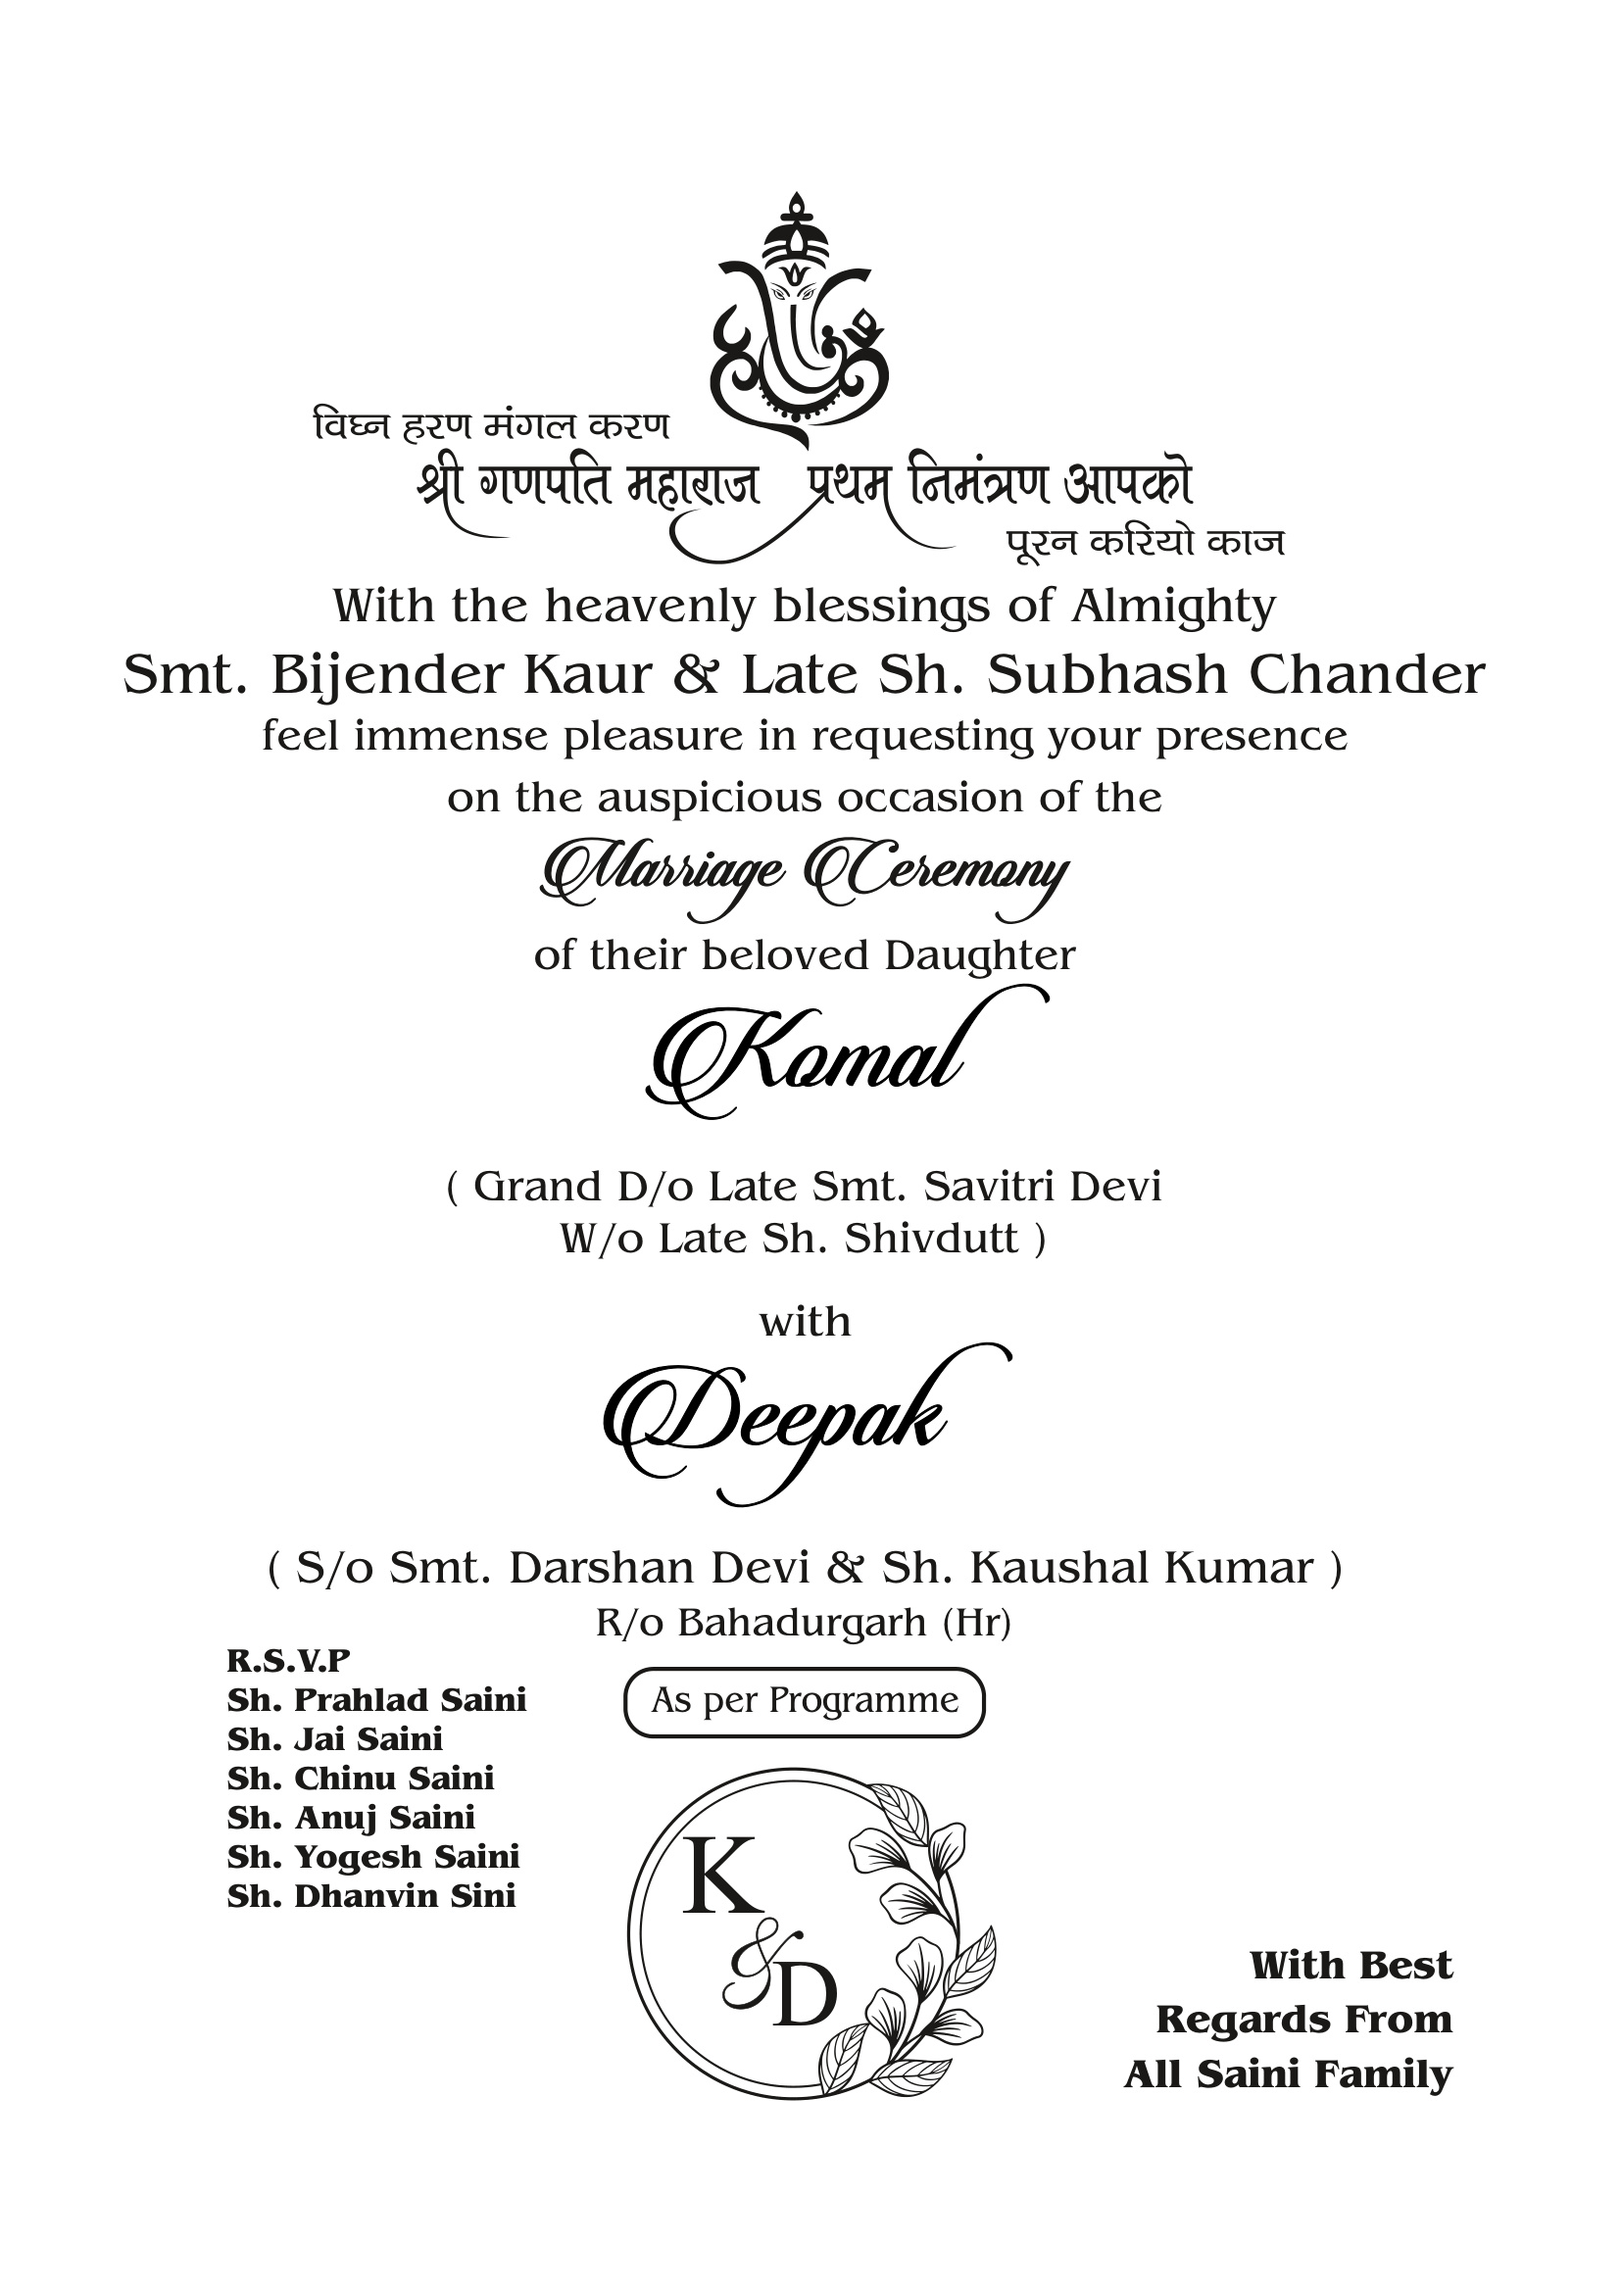
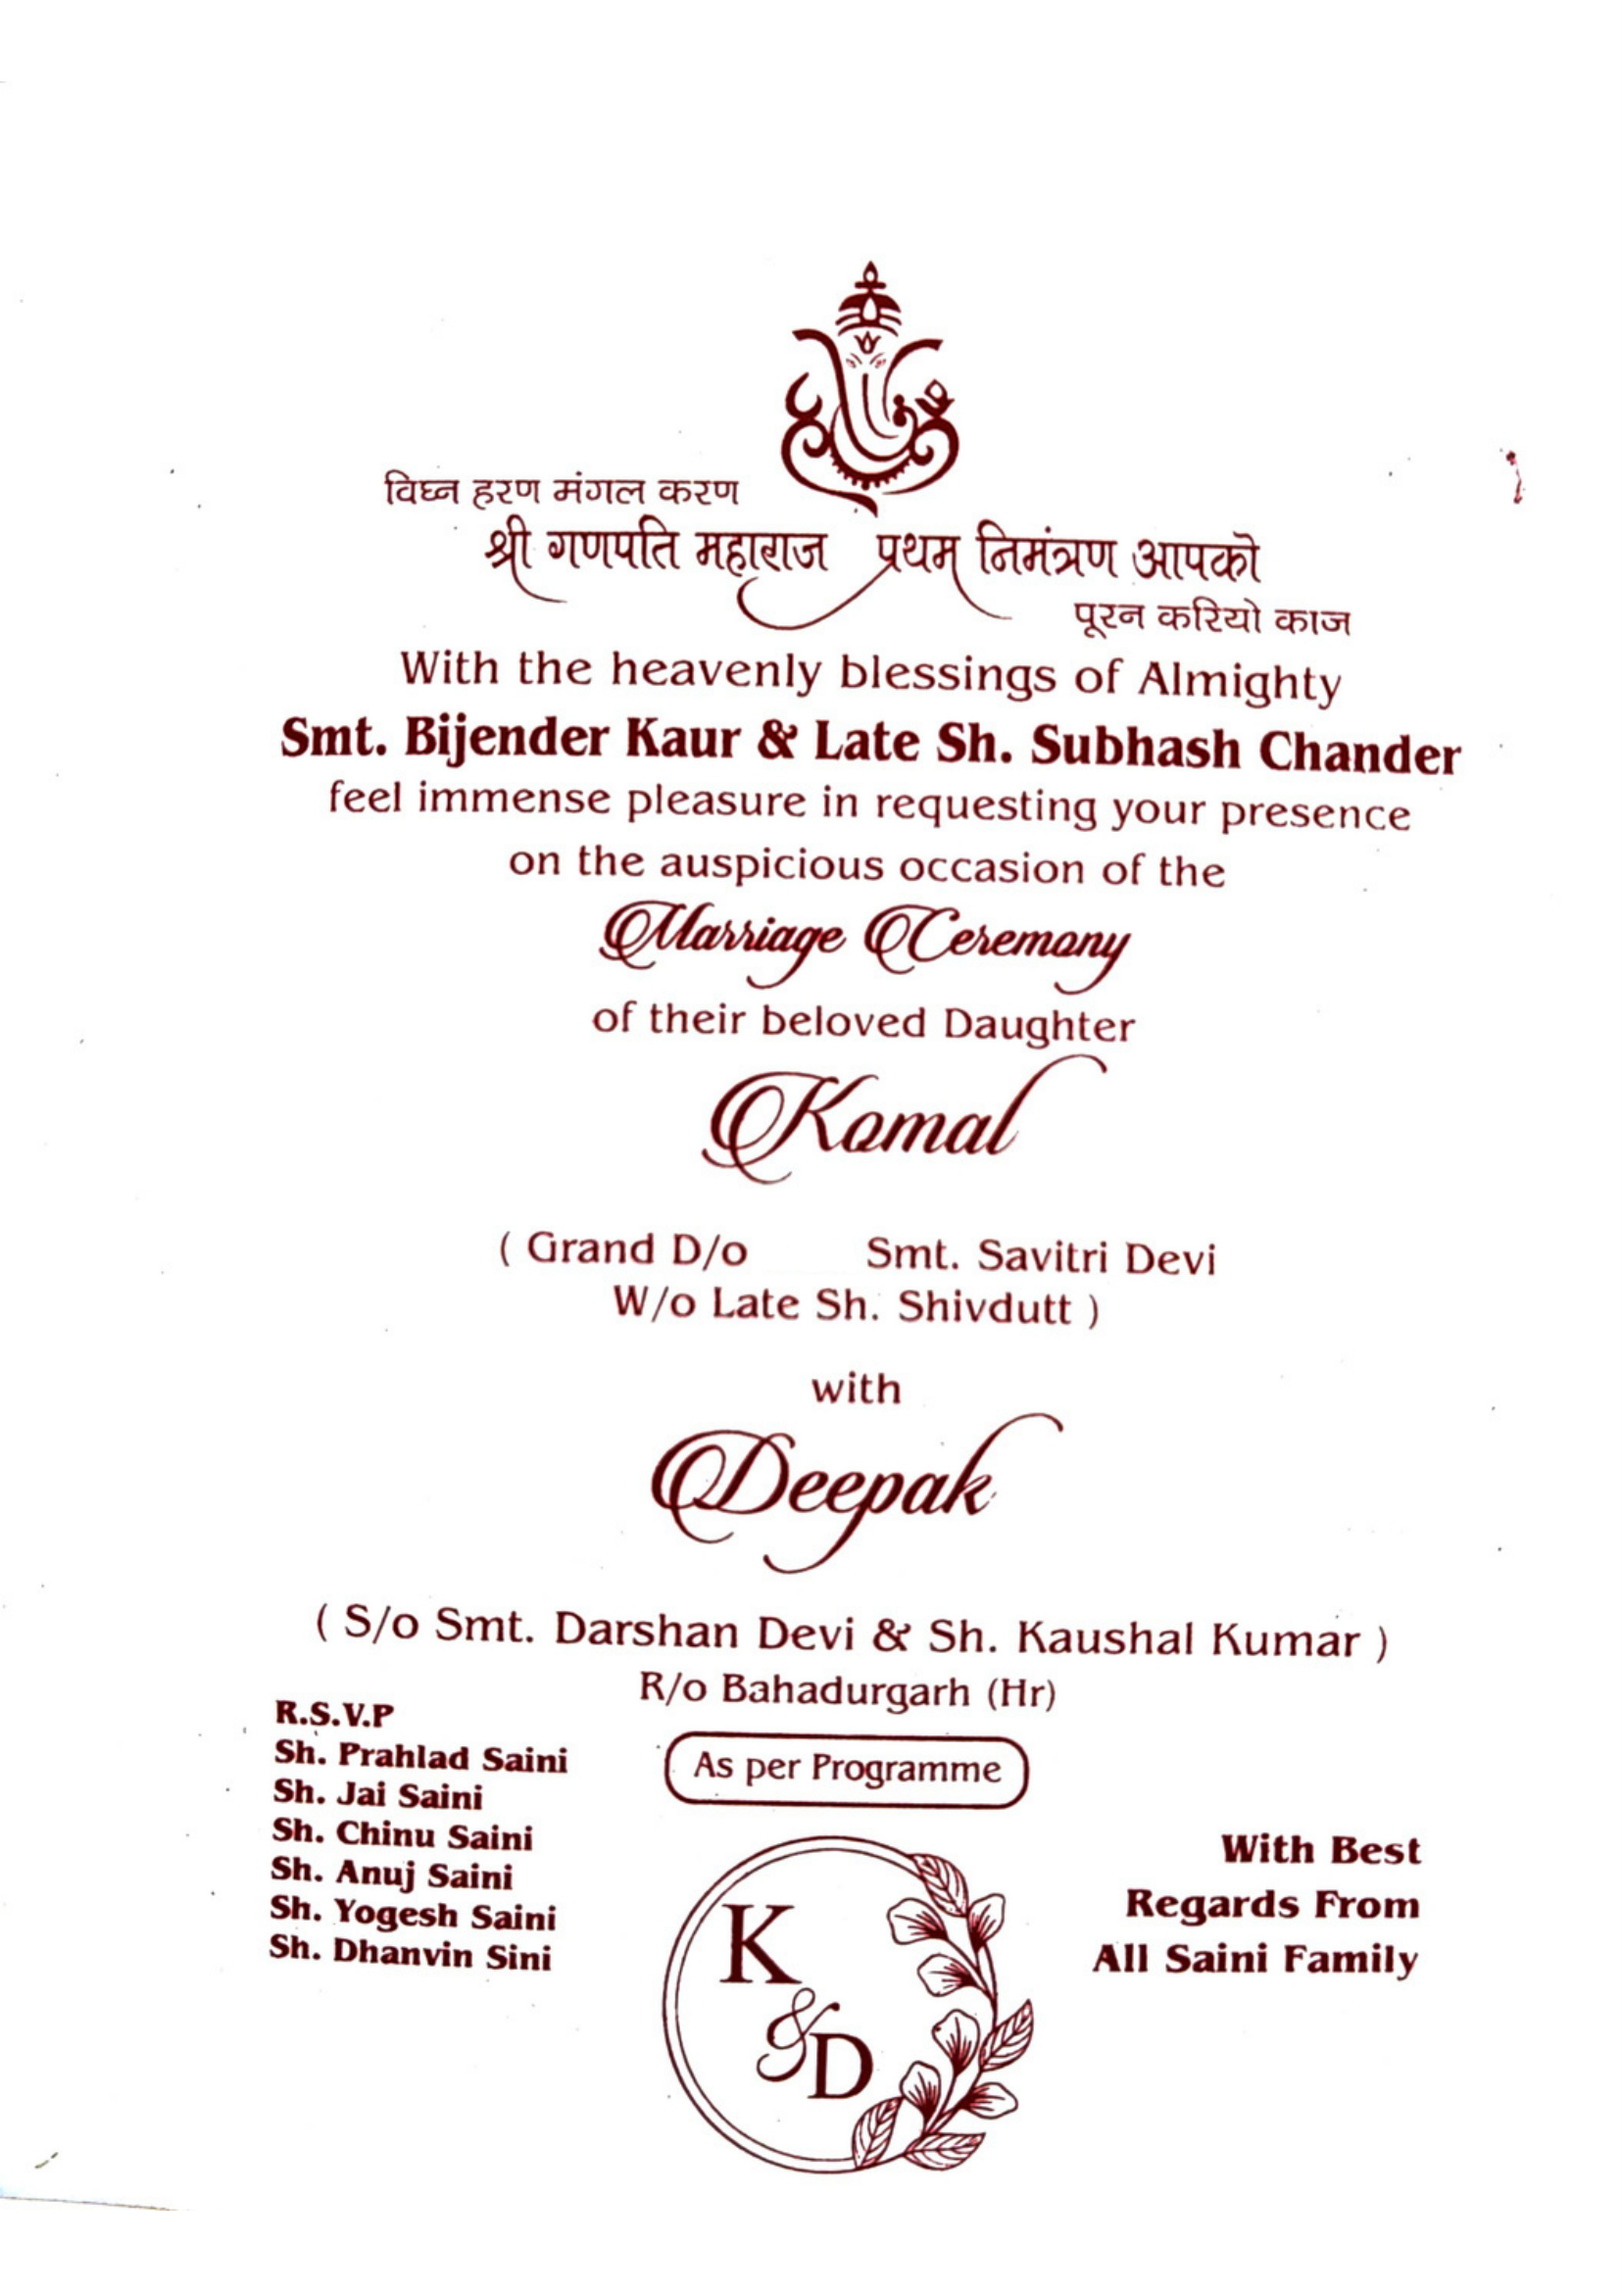
Update Save Wedding Schedule card and image assets from the new PDF

Changed region(s): [[0.0617, 0.0936, 0.925, 0.9675], [0.6784, 0.7802, 0.8942, 0.9363], [0.185, 0.156, 0.2158, 0.1873]]

diff --git a/src/data/wedding.ts b/src/data/wedding.ts
@@ -132,7 +132,7 @@ export const wedding: WeddingData = {
     address: "290/14, Quilla Mohalla, Bahadurgarh-124507",
     addressHindi: "२९०/१४, किला मोहल्ला, बहादुरगढ़-१२४५०७",
     contacts: ["9017824181", "8930385454"],
-    brideLineage: "Grand D/o Late Smt. Savitri Devi W/o Late Sh. Shivdutt",
+    brideLineage: "Grand D/o  Smt. Savitri Devi W/o Late Sh. Shivdutt",
     groomLineage: "S/o Smt. Darshan Devi & Sh. Kaushal Kumar, R/o Bahadurgarh (Hr)",
     rsvpList: [
       "Sh. Prahlad Saini",
@@ -228,7 +228,7 @@ export const wedding: WeddingData = {
       address: "Quilla Mohalla, Bahadurgarh-124507",
       addressHindi: "किला मोहल्ला, बहादुरगढ़-१२४५०७",
       description:
-        "An enchanting evening of joyful music, melodious wedding folk songs, traditional dance, and festive celebrations.",
+        "An enchanting evening of joyful music, melodious wedding folk songs, traditional dance.",
     },
     {
       id: "dinner",

diff --git a/src/components/SiteFooter.tsx b/src/components/SiteFooter.tsx
@@ -293,8 +293,8 @@ export default function SiteFooter({ wedding }: { wedding: WeddingData }) {
                     <img
                       src={SCHEDULE_CARD_IMAGE_URL}
                       alt={`${wedding.bride} & ${wedding.groom} Wedding Schedule Card`}
-                      width={682}
-                      height={1024}
+                      width={595}
+                      height={842}
                       loading="eager"
                       decoding="async"
                     />

diff --git a/src/lib/downloadSchedule.ts b/src/lib/downloadSchedule.ts
@@ -1,8 +1,8 @@
 import type { WeddingData, WeddingEvent } from "@/data/wedding";
 
 export const SCHEDULE_CARD_IMAGE_URL = "/media/final-assets/wedding-schedule-card.jpg";
-const CARD_WIDTH = 682;
-const CARD_HEIGHT = 1024;
+const CARD_WIDTH = 595;
+const CARD_HEIGHT = 842;
 
 const MONTHS: Record<string, number> = {
   january: 1,
